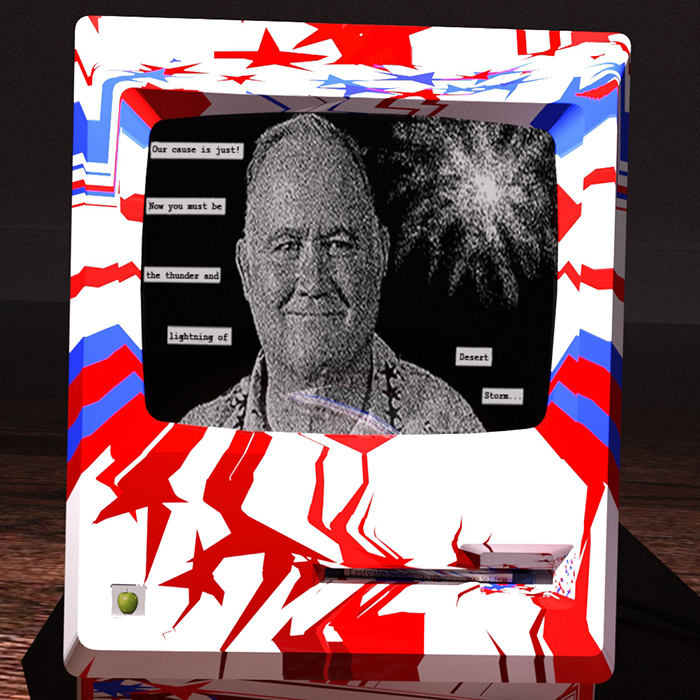
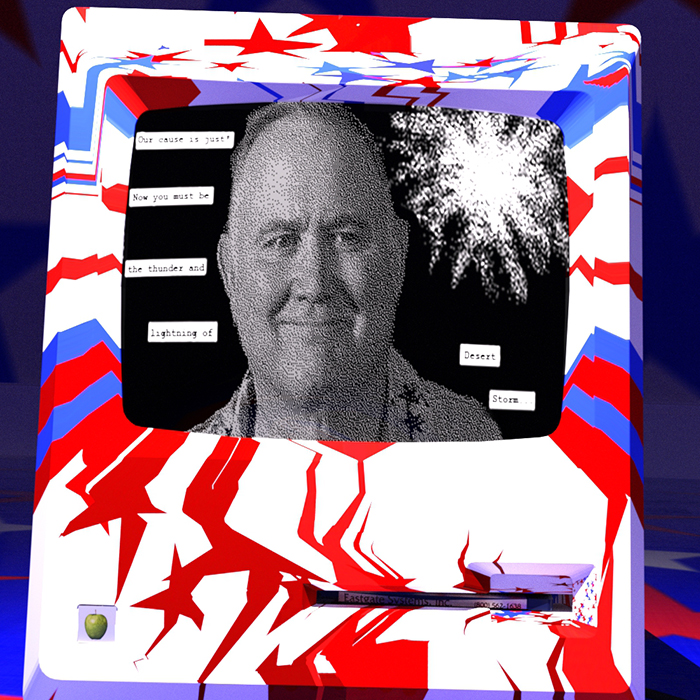
Fixes to Paths and Other Things
Fixed problems in 3 Paths.  Changed layout of Pathfinders page, typography on one of the covers, and updated the "Norman Coordinate" image.

diff --git a/Current Development/vers1.0.1/scripts/dataSource.js b/Current Development/vers1.0.1/scripts/dataSource.js
@@ -154,7 +154,7 @@ astray = "Not_a_War_Story,Violent_Mistake,Out_of_School,BMTV,Post-60_s,Bildung,O
 as_we_want = "7-3-91,6-10-91,Back_to_the_Future,Watch_My_Back,Bird_Fiver-Two,Grounded,Meet_Again,initialConditions,Need_to_Know,Cutouts,Breathless,Targetting,Hell_is_Far_Away,Gas_Masks,Kuralt,Cronkite,Rather_Not,Hard_Start,The_Color_Guys,Now_Eat_This,Ask_the_Marshall,1001_Arabian_Flights,Without_End_Amen,Troublesome_Priests,Bernie_s_Nerves,Simon_Says,Surgery,Worry_,Discordia_Concorde,_Don_t_Worry,Kind_of_Scary,The_Other_Side,Do_It_Now,Fill_The_Pool,Air_Traffic,Satisfaction,Unseen,Face_the_Wall,Keep_the_Change,Sisters,Generations,Heirloom,Your_Generation,Resistance_,What_Should_I_Do_,Old_Movies,Blood_Aggression,Cyclops,Justice_,Demo,Here_They_Come,Critics,Special_Occasion,A_Close_One,Say_Miss_,Loose_Lips,Statement,Irresistible,Control_Voice,Marchers,What_Do_We_Want_,Messages,Omega_Man,Joker,Not_So_Cool,Object_Lesson,All_the_Way,Where_Troubles_Melt,Uh_Oh_,_But_No,Remember_Your_Roots,Hustler,Rebel_Roots,No_Excuses,Doing_My_Best,Streets,Forget_Politics,Dear_Emily,Failure,War_Games,Hopeless,No_Resistance,Playing_Around,Look_in_the_Mirror,Women_s_Issue,Otherness,Come_Home,Telephone,Ringing_Tone,Listeners,Caller,Unhappy,Adjectival,Business,Proposition,Courteous,Demand,Bad_Shit,Background_Fill,Ask_the_Man,Going_West,Decline_of_Man,Doubly_Incorrect,Speaking_of_U_,Parley,Floor_Thirteen,Newsworthy,Talking_Tate,What_s_With_Boris_,All_or_None,Now_Realize_This,No_Heroes,Anger,Guess_Who_,No_One_But_U_,Turnabout,10_000_Heroes,Our_Heroes,Absent_Brothers,Going_West,Decline_of_Man,Doubly_Incorrect,Speaking_of_U_,Parley,Floor_Thirteen,Newsworthy,Talking_Tate,What_s_With_Boris_,All_or_None,Now_Realize_This,No_Heroes,Anger,Guess_Who_,No_One_But_U_,Turnabout,Latticework,Hi_Mom,Leroy,Thirsty,Full_of_Surprises,Truant,On_the_Road,Refuge_from_the_Road,Into_the_Country,What_s_It_Mean_,Talking_Politics,What_Should_I_Do_,Old_Movies,Blood_Aggression,Cyclops,Justice_,Demo,Here_They_Come,Critics,Special_Occasion,A_Close_One,Say_Miss_,Loose_Lips,Statement,Irresistible,Control_Voice,Marchers,What_Do_We_Want_,Messages,Omega_Man,Joker,Not_So_Cool,Object_Lesson,All_the_Way,Where_Troubles_Melt,Uh_Oh_,_But_No,Dear_Emily,Failure,War_Games,Hopeless,No_Resistance,Come_Home,Your_Old_Man,Misguided_Dangerous,Frank_Disclosure,Edible,Frank_Opinion,Rooting_for_the_Iceberg,Belief_System,Demo,Here_They_Come,Critics,Special_Occasion,A_Close_One,Say_Miss_,Loose_Lips,Statement,Irresistible,Control_Voice,Marchers,What_Do_We_Want_,Messages,Omega_Man,Joker,Not_So_Cool,Object_Lesson,All_the_Way,Where_Troubles_Melt,Uh_Oh_,_But_No,Dear_Emily,Failure,War_Games,Hopeless,No_Resistance,Come_Home"
 
 //UPDATED 2022-01-27, SLIGHTLY MODIFIED FROM VG 1991
-bent = "Tara,Scare,Demo,In_Country,Capitol,Informant,John_Law,Don_t_Worry,No_Paranoid_He,Testify_Memory,Naming_Names,Unreliable,Exhuming_McCarthy,The_Dance,Exit,Emily_to_Thea,The_General,Get_It_Done,Opinions,Who_s_Out_of_It_,Forbidden_Planet,Inversion,Conquering_Hero,Do_It_Now,P_C_,Back_to_the_Future,For_All,Bent_We_Know,That_Stand,Transcript,Bad,Insidious,Ratfucking,In_the_No,The_Other_Guy,Foxy,All_Gone,Veronica_s_Party,Prophet,Hi_Mom,Ancient_History,Justice_,_But_No,Unity_Candidate,Dear_Emily,Come_Home,Pragmatics,Close,Noted_in_Passing,Coincidence,All_Right,Because_Because_Because,All_Right,Greenback,West_End"
+bent = "Tara,Scare,Demo,In_Country,Capitol,Informant,John_Law,Don_t_Worry,No_Paranoid_He,Testify_Memory,Naming_Names,Unreliable,Exhuming_McCarthy,The_Dance,Exit,Emily_to_Thea,The_General,Get_It_Done,Opinions,Who_s_Out_of_It_,Forbidden_Planet,Inversion,Conquering_Hero,Do_It_Now,P_C_,Back_to_the_Future,Bent_For_All,Bent_We_Know,Bent_That_Stand,Transcript,Bad,Insidious,Ratfucking,In_the_No,The_Other_Guy,Foxy,All_Gone,Veronica_s_Party,Prophet,Hi_Mom,Ancient_History,Justice_,_But_No,Unity_Candidate,Dear_Emily,Come_Home,Pragmatics,Close,Noted_in_Passing,Coincidence,All_Right,Because_Because_Because,All_Right,Greenback,West_End"
 
 //2022-01-27 - KEEPING THE DECEMBER '21 VERSION OVER THE '91, WHICH IS A ONE-STEP
 blinding_sights = "Images,Ground_Zero,Targetting,Hell_is_Far_Away,Cronkite,In_the_No,Nice_Girls,Adoration,Listen_Up,Stone_in_Love,Irrational_Heart,Unfit,Rose_Tattoo,Something_Wild,Thanks_for_the_Advice,Capitol,Eyewitness,Back_in_the_Saddle,March,Encounter,Lunch_Hour,Screwups,Comrades,Where_s_the_Story_,Tough,Which_Dream,Happy_Birthday,U_Turns,Not_Right,What_Am_I_,A_Little_Paranoia,Veronica_s_Party,Body_Shots,Resistance_Begins,Polemicist,Exchange_of_Views,Conflict_Management,Public_Opinion,Ghost,Check_It_Out,Backyard,Harangue,Prophet,Reflex,What_U_Know,Engineer,Aperture,Wise,Audience,Some_Scene,Not_I,How_U_,Speaking_of_Which_,How_Things_Are,Some_Kind_of_Crisis,Ourselves,Theory_of_My_Life,Multiplier_Effect,The_Seventies,Trembling_on_the_Brink,On_the_Bus,What_She_Knows,Better_All_The_Time,Distinctions,Outnumbered,Latticework,Hi_Mom,Leroy,Thirsty,Full_of_Surprises,Truant,On_the_Road,Refuge_from_the_Road,Into_the_Country,What_s_It_Mean_,Talking_Politics,What_Should_I_Do_,Old_Movies,Blood_Aggression,Cyclops,Justice_,Demo,Here_They_Come,Critics,Special_Occasion,A_Close_One,Say_Miss_,Loose_Lips,Statement,Irresistible,Marchers,What_Do_We_Want_,Messages,Omega_Man,Joker,Fancy_This,Was_That_You_,What_If_It_Was_,Keep_Smiling_Until_Then,Telephone,Ringing_Tone,Listeners,Caller,Unhappy,Adjectival,Business,Proposition,Courteous,Demand,Bad_Shit,Background_Fill,Ask_the_Man,Letters,Two_or_Three_Thousand,People_Power,Why_Bother_,String_Attached,Unity_Candidate,Postwar,Morning,Noon,Night,Breakfast,Lunch,Dinner,At_Work,At_Play,In_Dreams,Then,And_Now,And_Then_Again,Miles,Stranger,And_,Anima,Image"
@@ -211,7 +211,7 @@ inward = "Swarming,Story_of_My_Life,En-dedans_le_Deluge,Floater,Embarked,Fishy,D
 know_nothing = "Need_to_Know,Paraknowledge,Regards_Dick,Anonymous,Name_That_Fear"
 
 //REBUILT 2022-01-27
-lifestory = "Story_of_My_Life,Where_Were_You_,Norman_Coordinate,Images,Mr_Postman_Look_See,Now_Eat_This,Bernie_s_Nerves,TV_as_Radio,Now_Here_This,Slacktown,Back_to_the_Future,Victory_at_Home,Freak_Whence_He,_Para_No_,Paraknowledge,Anonymous,Satisfaction,Its_Own_,8088,From_a_Hot_Place,Yours,Work,Turbulence_Down_on_Me,Wannabe,9-91,Paths_to_Explore"
+lifestory = "Story_of_My_Life,Where_Were_You_,Norman_Coordinate,Images,Mr_Postman_Look_See,Now_Eat_This,Bernie_s_Nerves,TV_as_Radio,Now_Here_This,Slacktown,Back_to_the_Future,Victory_at_Home,Freak_Whence_He,_Para_No_,Paraknowledge,Anonymous,Satisfaction,Its_On_,8088,From_a_Hot_Place,Yours,Work,Turbulence_Down_on_Me,Wannabe,9-91,Paths_to_Explore"
 
 //REBUILT 2022-01-27
 norman = "Norman_Coordinate,Ground_Zero,H_R_P_s,Postwar,Demo,In_Country,Hell_is_Far_Away,Cronkite,Without_End_Amen,Her_Element,Fog,Emily_to_Thea,The_General,Opinions,Conquering_Hero,Mail,Sitrep,Victory_at_Home,Aboveness,Yours,In_the_No,The_Other_Guy,Suit_Time,Why_Worry_,Good_Question,All_Gone,Pump_It_Up,Whitman_s_Creek,Well_in_Hand,Irresistible,Marchers,Keep_Smiling_Until_Then,Telephone,Demand,Bad_Shit,Unity_Candidate,Wannabe,Red,9-91,Paths_to_Explore"

diff --git a/Current Development/vers1.0.1/P_C_.html b/Current Development/vers1.0.1/P_C_.html
@@ -17,16 +17,17 @@
 
 <p>The articles of our faith are comprised in the Perpetuating Contract, the document negotiated between Jehovah Lord of Hosts and Andrew Carnegie of Hellshaft, Pennsylvania at the dawn of time, or was it the <a class="textlink"  href="Big_Story.html">American Century</a>, comes to the same thing.</p>
 
-<p>The Contract specifies a monetary standard for all acts of signification.</p>
-<p>The Contract assures that the Ball Shall Continue Bouncing.</p>
-<p>The Contract stipulates that bigger is necessarily better.</p>
-<p>The Contract establishes Unrestricted Growth as a natural right of all enterprises.</p>
-<p>The Contract decrees that the rich are not like you and him.</p>
-<p>The Contract redefines the wages of sin.</p>
-<p>The Contract promises every sucker an even break. </p>
-<p>The Contract guarantees liberal injustice for all.</p>
-<p>The Contract says not to worry, <a class="textlink"  href="Don_t_Worry.html">we'll think of something</a>.</p>
-
+<ul style="list-style-type: circle;">
+	<li>The Contract specifies a monetary standard for all acts of signification.</li>
+	<li>The Contract assures that Ball Shall Continue Bouncing.</li>
+	<li>The Contract stipulates that bigger is necessarily better.</li>
+	<li>The Contract establishes Unrestricted Growth as a natural right of all enterprises.</li>
+	<li>The Contract decrees the rich are not like you and him.</li>
+	<li>The Contract redefines the wages of sin.</li>
+	<li>The Contract promises every sucker an even break.</li>
+	<li>The Contract guarantees liberal injustice for all.</li>
+	<li>The Contract says not to worry, <a class="textlink"  href="Don_t_Worry.html">we'll think of something</a>.</p>
+</ul>
 
 </main>
 <script src='scripts/uiScript.js'></script>

diff --git a/Current Development/vers1.0.1/Pathfinder-X.html b/Current Development/vers1.0.1/Pathfinder-X.html
@@ -6,19 +6,20 @@
 	<link rel="stylesheet" href="https://fonts.googleapis.com/css?family=Crimson Pro|Cabin">
 <link rel='stylesheet' href='css/VGStyle.css'>
 	<!-- INTERNAL STYLESHEET TO BYPASS VERTICAL CENTERING -->
-	<style>
-		main { position: absolute; top: 10px; }
-		#pathList{
-			text-align:  center;
-			position:  absolute;
-			top:  60px;
-		}
-		#decal{
-			position:  absolute;
-			top:  60px;
-			left:  200px;
-		}
-	</style>
+
+<style>
+			main { position: absolute; top: 10px; }
+			.wrapper {
+				  display: grid;
+  					grid-template-columns: repeat(2, 10fr);
+  					gap: 8px;
+  					grid-auto-rows: minmax(80px, auto);
+			}
+			.pathList { grid-column: 1 / 2; grid-row: 1; }
+			.decal  { grid-column: 2 / 2; grid-row: 1; }
+
+</style>
+
 	<script src='scripts/VGScript.js'></script>
 	
 	<script src='scripts/dataSource.js'></script>
@@ -26,10 +27,13 @@
 <body onLoad="pageStart()">
 <main>
 
-<div class='centered' style="width: 700px;">
-
-<div id="pathList">
 <h1>The Paths</h1>
+<br>
+
+<div class='wrapper'>
+
+<div class="pathList" style="text-align: center;">
+
 	<!-- 1 ABW -->
 	<a href='All_Hazards_.html'>ABW</a><br>
 	<!-- 2 alone -->
@@ -149,7 +153,7 @@
 
 </div>
 
-<div id="decal">
+<div class="decal">
 	<img src="images/Pathfinder_Decal.jpg" width="200" alt="labyrinthine design">
 </div>
 

diff --git a/Current Development/vers1.0.1/Bent_For_All.html b/Current Development/vers1.0.1/Bent_For_All.html
@@ -2,29 +2,21 @@
 <html>
 <head>
 	<meta http-equiv="content-type" content="text/html; charset=utf-8">
-	<title>In the Other Beginning</title>
+	<title>For All</title>
 <link rel="stylesheet" href="https://fonts.googleapis.com/css?family=Crimson Pro|Cabin">
 <link rel='stylesheet' href='css/VGStyle.css'>
 <script src='scripts/VGScript.js'></script>
 <script src='scripts/dataSource.js'></script>
 
-<script>
-	sessionStorage.setItem('currentPath',one_way_street);
-	sessionStorage.setItem('pathCount','-1');
-	override = "Wadi";
-</script>
 </head>
 <body onLoad="pageStart()">
 <main>
 
+<h1>For All</h1>
 
-<h1>In the Other Beginning</h1>
-<em>
+<p>In the labyrinth America where everything happens exactly as if God bent</p>
 
-
-
-
-<p class='centered'>...there was <a class="textlink"  href="In_the_Beginning.html">only one way </a>to <a class="textlink"  href="Come_Often_.html">go</a>.</em></p>
+<p><a class="textlink"  href="We_Fear_.html">the rules</a>    :    <a class="textlink"  href="We_Know_.html">nature</a></p>
 
 </main>
 <script src='scripts/uiScript.js'></script>

diff --git a/Current Development/vers1.0.1/Bent_That_Stand.html b/Current Development/vers1.0.1/Bent_That_Stand.html
@@ -2,29 +2,22 @@
 <html>
 <head>
 	<meta http-equiv="content-type" content="text/html; charset=utf-8">
-	<title>In the Other Beginning</title>
+	<title>That Stand</title>
 <link rel="stylesheet" href="https://fonts.googleapis.com/css?family=Crimson Pro|Cabin">
 <link rel='stylesheet' href='css/VGStyle.css'>
 <script src='scripts/VGScript.js'></script>
 <script src='scripts/dataSource.js'></script>
 
-<script>
-	sessionStorage.setItem('currentPath',one_way_street);
-	sessionStorage.setItem('pathCount','-1');
-	override = "Wadi";
-</script>
 </head>
 <body onLoad="pageStart()">
 <main>
 
 
-<h1>In the Other Beginning</h1>
-<em>
+<h1>That Stand</h1>
 
+<p>In the labyrinth America where everything happens precisely as if God</p>
 
-
-
-<p class='centered'>...there was <a class="textlink"  href="In_the_Beginning.html">only one way </a>to <a class="textlink"  href="Come_Often_.html">go</a>.</em></p>
+<p><a class="textlink"  href="Calmly.html">meant</a>    :    <a class="textlink"  href="For_All.html">bent</a></p>
 
 </main>
 <script src='scripts/uiScript.js'></script>

diff --git a/Current Development/vers1.0.1/Its_On_.html b/Current Development/vers1.0.1/Its_On_.html
@@ -2,29 +2,23 @@
 <html>
 <head>
 	<meta http-equiv="content-type" content="text/html; charset=utf-8">
-	<title>In the Other Beginning</title>
+	<title>Its On.</title>
 <link rel="stylesheet" href="https://fonts.googleapis.com/css?family=Crimson Pro|Cabin">
 <link rel='stylesheet' href='css/VGStyle.css'>
 <script src='scripts/VGScript.js'></script>
 <script src='scripts/dataSource.js'></script>
 
-<script>
-	sessionStorage.setItem('currentPath',one_way_street);
-	sessionStorage.setItem('pathCount','-1');
-	override = "Wadi";
-</script>
 </head>
 <body onLoad="pageStart()">
 <main>
 
-
-<h1>In the Other Beginning</h1>
+<h1>Its On.</h1>
 <em>
 
 
 
 
-<p class='centered'>...there was <a class="textlink"  href="In_the_Beginning.html">only one way </a>to <a class="textlink"  href="Come_Often_.html">go</a>.</em></p>
+<p class='centered'>In the labyrinth of time you gainsay your moment's turn.</em></p>
 
 </main>
 <script src='scripts/uiScript.js'></script>
